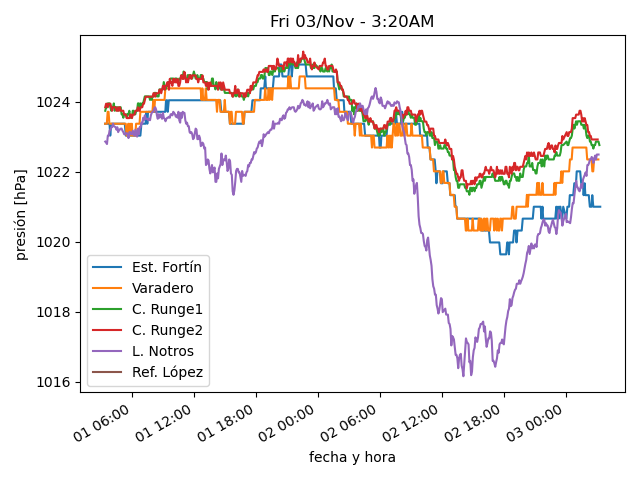
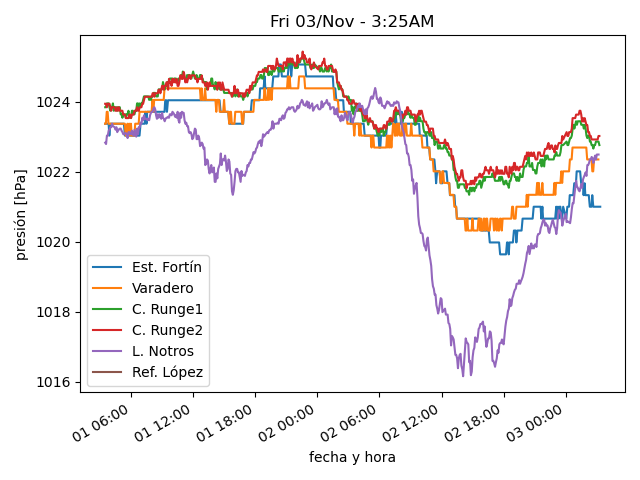
actualiza datos

diff --git a/estaciones/estacion4.html b/estaciones/estacion4.html
@@ -18,7 +18,7 @@
     </tr>
     <tr>
      <td class="stats_data">
-      3:04AM
+      3:14AM
      </td>
     </tr>
     <tr>
@@ -28,22 +28,22 @@
     </tr>
     <tr>
      <td class="stats_data">
-      0.4⁰C
+      0.5⁰C
      </td>
     </tr>
     <tr>
      <td class="stats_data">
-      67.5%
+      68.1%
      </td>
     </tr>
     <tr>
      <td class="stats_data">
-      1019.91hPa
+      1020.01hPa
      </td>
     </tr>
     <tr>
      <td class="stats_data">
-      3.9/6.6 km/hr SSW
+      2.6/4.5 km/hr SW
      </td>
     </tr>
     <tr>
